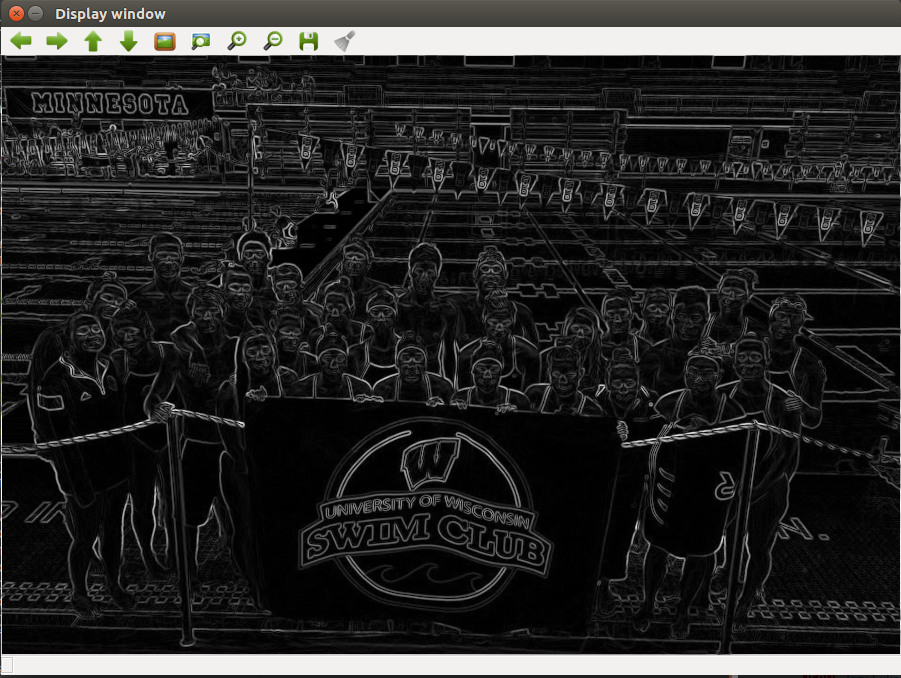
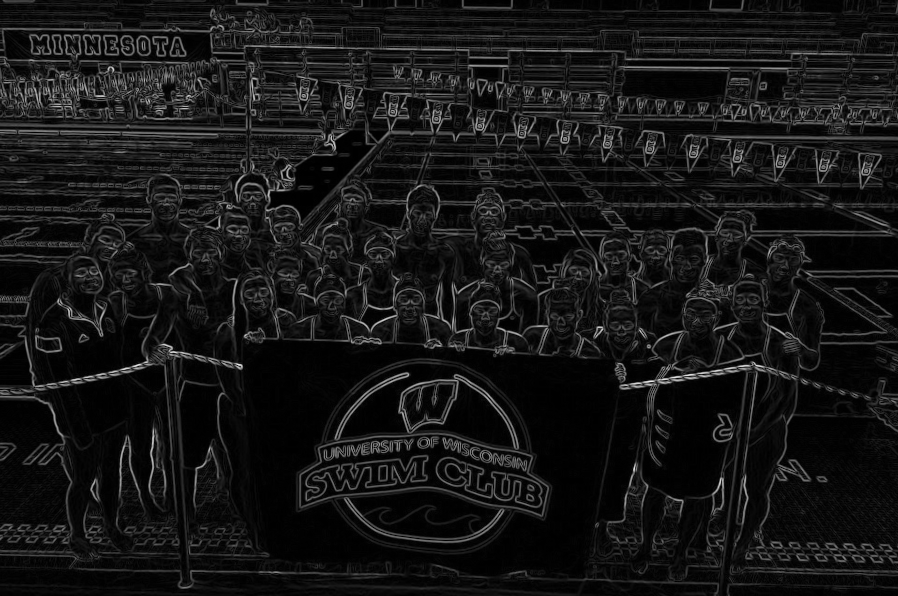
Canny operator hysteresis tuned; outputs added

diff --git a/canny.cpp b/canny.cpp
@@ -66,46 +66,87 @@ void NonMaxSuppresion(float *grad, float* magn, float* supp, size_t r, size_t c)
 	}	
 }
 
-void threshold(float* supp, size_t r, size_t c, float low, float high) {
-	#pragma omp for collapse(2)
+// void threshold(float* supp, size_t r, size_t c, float low, float high) {
+// 	#pragma omp for collapse(2)
+// 	for (int i = 0; i < r; i++) {
+// 		for (int j = 0; j < c; j++) {
+// 			if (supp[i*c+j] < low)
+// 				supp[i*c+j] = 0.0;
+// 			else if (supp[i*c+j] >= high)
+// 				supp[i*c+j] = 1.0;
+// 			else
+// 				rec_hysteresis(supp, i, j, r, c, low, high);
+// 		}
+// 	}
+// }
+
+// // pixels between low and high thresholds
+// void hysteresis(float *supp, size_t r, size_t c, float low, float high) {
+// 	#pragma omp for collapse(2)
+// 	for (int i = 0; i < r; i++) {
+// 		for (int j = 0; j < c; j++) {
+// 			if (supp[r*c+c] >= low && supp[r*c+c] <= high) {
+// 				bool hasHighNei = false, hasMidNei = false;
+// 				for (size_t pr = i-1; pr <= i+1; pr++) {
+// 					for (size_t pc = j-1; pc <= j+1; pc++) {
+// 						if (pr < 0 || pc < 0 || pr >= r || pc >= c)
+// 							continue;
+// 						else {
+// 							if (supp[pr*c+pc] > high) {
+// 								hasHighNei = true;
+// 								supp[i*c+j] = 1.0;
+// 								break;
+// 							}
+// 							else if (supp[pr*c+pc] > low && supp[pr*c+pc] < high)
+// 								hasMidNei = true;
+// 						}
+// 					}
+// 					if (hasHighNei)
+// 						break;
+// 				}
+
+// 			}
+// 			// due to this pixel now being classified as edge, other previous pixels need to be reconsidered
+// 			// so hasMidNei
+// 		}
+// 	}
+// }
+
+void hysteresis(float* supp, size_t r, size_t c, float low, float high) {
 	for (int i = 0; i < r; i++) {
 		for (int j = 0; j < c; j++) {
-			if (supp[i*c+j] < low)
-				supp[i*c+j] = 0.0;
-			if (supp[i*c+j] > high)
+			if (supp[i*c+j] > high) {
 				supp[i*c+j] = 1.0;
+				rec_hysteresis(supp, i, j, r, c, low, high);
+			}
+		}
+	}
+
+	for (int i = 0; i < r; i++) {
+		for (int j = 0; j < c; j++) {
+			if (supp[i*c+j] != 1.0) {
+				supp[i*c+j] = 0.0;
+			}
 		}
 	}
 }
 
-// pixels between low and high thresholds
-void hysteresis(float *supp, size_t r, size_t c, float low, float high) {
-	#pragma omp for collapse(2)
-	for (int i = 0; i < r; i++) {
-		for (int j = 0; j < c; j++) {
-			if (supp[r*c+c] >= low && supp[r*c+c] <= high) {
-				bool hasHighNei = false, hasMidNei = false;
-				for (size_t pr = i-1; pr <= i+1; pr++) {
-					for (size_t pc = j-1; pc <= j+1; pc++) {
-						if (pr < 0 || pc < 0 || pr >= r || pc >= c)
-							continue;
-						else {
-							if (supp[pr*c+pc] > high) {
-								hasHighNei = true;
-								supp[i*c+j] = 1.0;
-								break;
-							}
-							else if (supp[pr*c+pc] > low && supp[pr*c+pc] < high)
-								hasMidNei = true;
-						}
+void rec_hysteresis(float *supp, size_t idxr, size_t idxc, size_t r, size_t c, float low, float high) {
+	for (int i = idxr-1; i <= idxr+1; i++) {
+		for (int j = idxc-1; j <= idxc+1; j++) {
+			if (i < 0 || j < 0 || i >= r || j >= c)
+				continue;
+			if (i != idxr && j != idxc) {
+				if (supp[i*c + j] != 1.0) {
+					if (supp[i*c+j] > low) {
+						supp[i*c+j] = 1.0;
+						rec_hysteresis(supp, i, j, r, c, low, high);
 					}
-					if (hasHighNei)
-						break;
+					else {
+						supp[i*c+j] = 0.0;
+					}
 				}
-
 			}
-			// due to this pixel now being classified as edge, other previous pixels need to be reconsidered
-			// so hasMidNei
 		}
 	}
 }

diff --git a/imread_canny.cpp b/imread_canny.cpp
@@ -88,7 +88,26 @@ int main( int argc, char** argv )
 
     /* get the output Gy, by convolution with Sobel operator */
     convolve1D_horiz(smooth_img, temp, image.rows, image.cols, masky1, 3);
-    convolve1D_vert(temp, outputy, image.rows, image.cols, masky2, 3);    
+    convolve1D_vert(temp, outputy, image.rows, image.cols, masky2, 3);
+
+    // Mat ox = Mat(image.rows, image.cols, CV_32F, outputx);
+    // Mat oy = Mat(image.rows, image.cols, CV_32F, outputy);
+    // Mat norm_ox, norm_oy;
+    // normalize(ox, norm_ox, 0, 1, NORM_MINMAX, CV_32F);
+    // normalize(oy, norm_oy, 0, 1, NORM_MINMAX, CV_32F);
+    
+    // imshow( "Display window", ox);
+    // waitKey(0);
+    // imshow( "Display window", oy);
+    // waitKey(0);
+
+    // imshow( "Display window", norm_ox);
+    // waitKey(0);
+    // imshow( "Display window", norm_oy);
+    // waitKey(0);
+
+    // outputx = ox.ptr<float>(0);
+    // outputy = oy.ptr<float>(0);
 
     // #pragma omp for simd collapse(2)
     // for (int i = 0; i < image.rows; i++) {
@@ -121,28 +140,33 @@ int main( int argc, char** argv )
     imshow( "Display window", norm_out);
     waitKey(0);    
 
-    // for (int i = 0; i < out.rows; i++) {
-    //     for (int j = 0; j < out.cols; j++) {
-    //         cout << supp[i*out.cols+j] << " ";
-    //     }
-    //     cout << endl;
-    // }    
+    double minVal, maxVal;
+    minMaxLoc(norm_out, &minVal, &maxVal);
+
+    cout << minVal << " " << maxVal << endl;
 
     float* norm_supp = norm_out.ptr<float>(0);
 
+
+    // for (int i = 0; i < out.rows; i++) {
+    //     for (int j = 0; j < out.cols; j++) {
+    //         // cout << supp[i*out.cols+j] << " ";
+    //     }
+    //     cout << endl;
+    // }
+
+    hysteresis(norm_supp, image.rows, image.cols, 0.08, 0.11);
+
     // for (int i = 0; i < norm_out.rows; i++) {
-    //     for (int j = 0; j < norm_out.cols; j++) {
+    //     for (int j = 0; j < 10; j++) {
     //         cout << norm_supp[i*out.cols+j] << " ";
     //     }
     //     cout << endl;
     // }
 
-
-    threshold(norm_supp, image.rows, image.cols, 0.05, 0.95);
-
     out = Mat(image.rows, image.cols, CV_32F, norm_supp);
-    imshow( "Display window", out);
-    waitKey(0);
+    // imshow( "Display window", out);
+    // waitKey(0);
 
     normalize(out, norm_out, 0, 1, NORM_MINMAX, CV_32F);
     imshow( "Display window", norm_out);

diff --git a/canny.h b/canny.h
@@ -3,5 +3,7 @@
 void generateGaussian(float *filter, size_t m, float sigma);
 void NonMaxSuppresion(float *grad, float* magn, float* supp, size_t r, size_t c);
 void mag_grad(float *Gx, float *Gy, float *magn, float *grad, size_t r, size_t c);
-void threshold(float* supp, size_t r, size_t c, float low, float high);
-void hysteresis(float *supp, size_t r, size_t c, float low, float high);
+// void threshold(float* supp, size_t r, size_t c, float low, float high);
+// void hysteresis(float *supp, size_t r, size_t c, float low, float high);
+void hysteresis(float* supp, size_t r, size_t c, float low, float high);
+void rec_hysteresis(float *supp, size_t idxr, size_t idxy, size_t r, size_t c, float low, float high);
